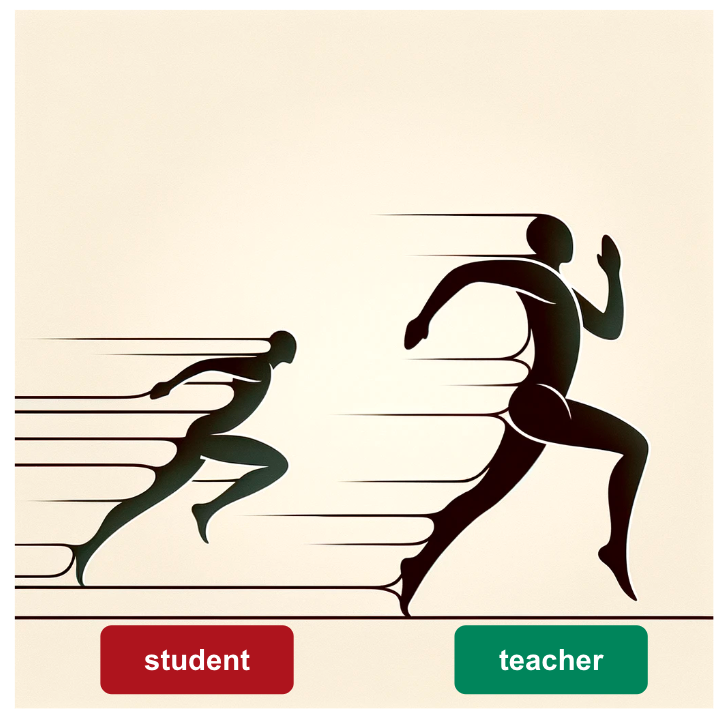
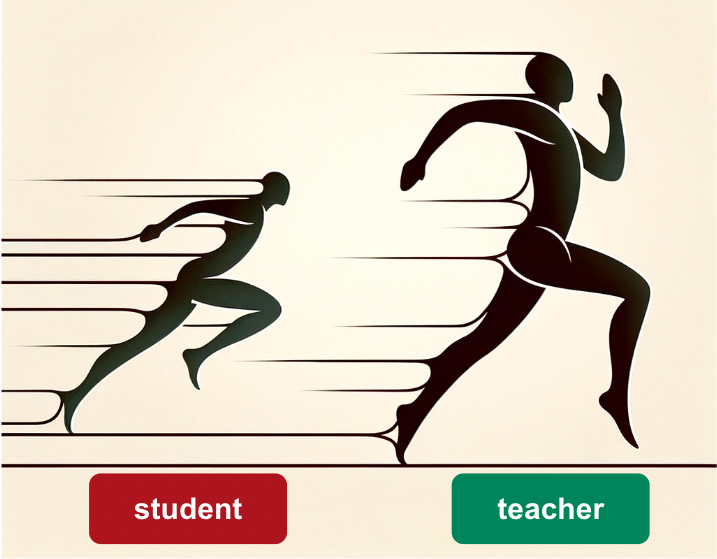
More writing.

Changed region(s): [[0.0, 0.0, 1.0, 1.0]]

diff --git a/README.md b/README.md
@@ -30,15 +30,14 @@ The advice in this document draws from our experience distilling language models
 
 ## Commmitment to open source
 
-At Predibase, we believe that the future is fine-tuned, specialized, and open source LLMs. Open source is in the DNA of the company, and as a company we maintain:
+At Predibase, we believe that the future is fine-tuned, specialized, and **open source** LLMs. Open source is in the DNA of the company, and as a company we maintain:
 
-- [Ludwig](https://github.com/ludwig-ai/ludwig): Low-code framework for building custom LLMs, neural networks, and other AI models
-- [LoRAX](https://github.com/predibase/lorax): Multi-LoRA inference server that scales to 1000s of fine-tuned LLMs
-- [Horovod](https://github.com/horovod/horovod): Distributed training framework for TensorFlow, Keras, PyTorch, and Apache MXNet.
+- [Ludwig](https://github.com/ludwig-ai/ludwig): Low-code framework for building custom LLMs, neural networks, and other AI models.
+- [LoRAX](https://github.com/predibase/lorax): Multi-LoRA inference server that scales to 1000s of fine-tuned LLMs.
 
 <details><summary><em>[More about Predibase]</em></summary>
 
-Predibase is a [managed platform](https://predibase.com) that's built on top of these repositories. If you are interested in a managed solution for fine-tuning and deploying LLMs, you can sign up for a free trial [here](https://predibase.com).
+Predibase is simply a [managed platform](https://predibase.com) that's built on top of open source. If you are interested in a managed solution for fine-tuning and deploying LLMs, you can sign up for a free trial [here](https://predibase.com).
 
 </details>
 
@@ -132,7 +131,7 @@ By measuring models on both of these test sets simultaneously, we can observe ho
 ***Summary:** The quality of your teacher model's outputs serves as an upper limit for the performance of your distilled student model. Invest in maximizing the quality of your teacher model's performance as much as possible.*
 
 ![img](images/student_and_teacher.png)
-<p align="center" ><i>Garbage in, garbage out.</i></p>
+<p align="center" ><i>Garbage in, garbage out. Make your teacher model as good as it can be before feeding its outputs for the student to imitate.</i></p>
 
 **Choose a good teacher:** The choice of the teacher model is a critical first step. Opt for a model that demonstrates the highest accuracy and understanding of your task. GPT-4 is generally great, but maybe there's a better foundation model out there for your use case, which may be better specialized on data similar to your task.
 
@@ -301,28 +300,54 @@ Tips for running lots of experiments at once:
 - Expect some toil and guesswork.
 - Optimize for iteration speed (simple -> complex, small -> large)
 
-The following suggestions came about as we tried to crystalize our own approach to fine-tuning LLMs and thus it represents the opinions of the authors at the time of writing, not any sort of objective truth.
+The following suggestions came about as we tried to crystalize our own approach to fine-tuning LLMs. This is far from a comprehensive list, but here are some of our favorites.
 
-| Idea                        | Complexity | Impact to Speed | Impact to Quality | Description                                                                                                                                                                                                                                                                                                                                                                                                                                                                                                                                                                                                                                                                                                                                                                                                                                                                                                                                                                                                                                |
-| --------------------------- | ---------- | --------------- | ----------------- | ------------------------------------------------------------------------------------------------------------------------------------------------------------------------------------------------------------------------------------------------------------------------------------------------------------------------------------------------------------------------------------------------------------------------------------------------------------------------------------------------------------------------------------------------------------------------------------------------------------------------------------------------------------------------------------------------------------------------------------------------------------------------------------------------------------------------------------------------------------------------------------------------------------------------------------------------------------------------------------------------------------------------------------------ |
-| Max sequence length.        | ★          | ★★★★★           | ★★★               | For long-tailed data, consider truncating your data to maximize GPU utilization.                                                                                                                                                                                                                                                                                                                                                                                                                                                                                                                                                                                                                                                                                                                                                                                                                                                                                                                                                           |
-| Foundation model.           | ★          | ★★              | ★★★★★             | Try out a few different foundation models and see what happens to your student models performance. Like teachers, different foundation models may be inherently closer to your task than others.                                                                                                                                                                                                                                                                                                                                                                                                                                                                                                                                                                                                                                                                                                                                                                                                                                           |
-| Model size.                 | ★          | ★★★★★           | ★★★               | Experiment with different sizes to get a sense of the trade-off between model performance and model size. Some tasks may benefit significantly from larger models due to the task's complexity. However, larger models are more likely to overfit to training data, especially if the dataset is not large or varied enough, or the gains in quality may be marginal. Increasingly, it's                                                                                                                                                                                                                                                                                                                                                                                                                                                                                                                                                                                                                                                   |
-| Prompt.                     | ★          | ★★              | ★★                | Prompts have an outsized impact with teacher models, but in supervised fine-tuning (SFT) and the weights of the model are updated directly, wordsmithing the prompt is not as directly impactful to quality.                                                                                                                                                                                                                                                                                                                                                                                                                                                                                                                                                                                                                                                                                                                                                                                                                               |
-| Precision and quantization. | ★★         | ★★★★            | ★★★★              | Reducing precision significantly decreases the model's size, enabling it to train with larger batch sizes and thus higher throughput. While quantization can sometimes lead to a slight decrease in model accuracy due to the reduced precision, it's not always the case. In our experiments, oftentimes the trade-off is minimal compared to the gains in speed and size reduction.                                                                                                                                                                                                                                                                                                                                                                                                                                                                                                                                                                                                                                                      |
-| Other hyperparameters.      | ★★★        | ★★★             | ★★★               | **Batch size:** Not a big impact to quality, but has strong implications for training throughput and efficient hardware utilization. For LLMs, choose the highest batch size that doesn't OOM. **Rank and alpha:** rank in LoRA determines the size of the low-rank matrices that are used to approximate the full-rank weight matrices in the model. A higher rank can increase the model's capacity to learn complex patterns but at the cost of more parameters to train. Conversely, a lower rank is more parameter-efficient but limits the model's expressiveness. **Learning rate (LR) and LR schedule:** An optimal learning rate ensures that the model learns efficiently without missing or overshooting the optimal weights. A proper warm-up can improve model training stability and performance while decay helps maintain the balance between learning complex patterns and avoiding overfitting to the training data. **# epochs:** Simply training a model for longer (more epochs) will often result in a better model. |
-| Tailored training.          | ★★★★★      | ★               | ★★★               | The most advanced training techniques that are worth saving for last-mile optimizations.  **Progressive learning,** also known as curriculum learning, is a training strategy where the model is fine-tuned in a series of stages, each with a different kind of training data, typically progressing from more general or noisier data to more specific, high-quality, or in-domain data. Progressive learning mirrors the natural way humans learn: starting from broad concepts and gradually focusing on more specific and complex ideas. **RLHF/RLHAIF/DPO**, also called "preference tuning" where the model undergoes reinforcement learning to align better to human preferences. This was originally popularized by OpenAI, however it's extremely costly, and seems like a last mile optimization. We have yet to speak with a company who has a critical need for this level of optimization.                                                                                                                                   |
-
+| Category               | Idea                                | Impact to Quality | Impact to Speed | Complexity | Description                                                                                                                                                                                                                                                                                                                                                                                                                                                                                                                                                             |
+| ---------------------- | ----------------------------------- | ----------------- | --------------- | ---------- | ----------------------------------------------------------------------------------------------------------------------------------------------------------------------------------------------------------------------------------------------------------------------------------------------------------------------------------------------------------------------------------------------------------------------------------------------------------------------------------------------------------------------------------------------------------------------- |
+| Architecture parameter | Foundation model                    | ★★★★★             | ★★              | ★          | Try out a few different foundation models and see what happens to your student models performance. Like teachers, different foundation models may be inherently closer to your task than others.                                                                                                                                                                                                                                                                                                                                                                        |
+| Architecture parameter | Precision and quantization          | ★★★★              | ★★★★            | ★★         | Reducing precision significantly decreases the model's size, enabling it to train with larger batch sizes and thus higher throughput. While quantization can sometimes lead to a slight decrease in model accuracy due to the reduced precision, it's not always the case. In our experiments, oftentimes the trade-off is minimal compared to the gains in speed and size reduction.                                                                                                                                                                                   |
+| Architecture parameter | Adapter parameters (rank and alpha) | ★★★★              | ★★★             | ★★         | Rank in LoRA determines the size of the low-rank matrices that are used to approximate the full-rank weight matrices in the model. A higher rank can increase the model's capacity to learn complex patterns but at the cost of more parameters to train. Conversely, a lower rank is more parameter-efficient but limits the model's expressiveness.                                                                                                                                                                                                                   |
+| Architecture parameter | Base model size                     | ★★★               | ★★★★★           | ★          | Experiment with different sizes to get a sense of the trade-off between model performance and model size. Some tasks may benefit significantly from larger models due to the task's complexity. However, larger models are more likely to overfit to training data, especially if the dataset is not large or varied enough, or the gains in quality may be marginal. Increasingly, it's                                                                                                                                                                                |
+| Architecture parameter | Prompt                              | ★★                | ★★              | ★          | Prompts have an outsized impact with teacher models, but in supervised fine-tuning (SFT) and the weights of the model are updated directly, wordsmithing the prompt is not as directly impactful to quality.                                                                                                                                                                                                                                                                                                                                                            |
+| Training parameter     | Epochs                              | ★★★★★             | ★★★★★           | ★          | Simply training a model for longer (more epochs) will often result in a better model.                                                                                                                                                                                                                                                                                                                                                                                                                                                                                   |
+| Training parameter     | Learning rate (LR) and LR schedule  | ★★★★★             | ★               | ★          | An optimal learning rate ensures that the model learns efficiently without missing or overshooting the optimal weights. A proper warm-up can improve model training stability and performance while decay helps maintain the balance between learning complex patterns and avoiding overfitting to the training data.                                                                                                                                                                                                                                                   |
+| Training parameter     | Max sequence length                 | ★★★               | ★★★             | ★          | For long-tailed data, consider truncating your data to maximize GPU utilization.                                                                                                                                                                                                                                                                                                                                                                                                                                                                                        |
+| Training parameter     | Batch size                          | ★★★               | ★★★★★           | ★          | Max out your GPU. Choose the highest batch size that doesn't OOM.                                                                                                                                                                                                                                                                                                                                                                                                                                                                                                       |
+| Training strategy      | Curriculum learning                 | ★★★★              | ★★★             | ★★★★★      | Progressive learning, also known as curriculum learning, is a training strategy where the model is fine-tuned in a series of stages, each with a different kind of training data, typically progressing from more general or noisier data to more specific, high-quality, or in-domain data. Progressive learning mirrors the natural way humans learn: starting from broad concepts and gradually focusing on more specific and complex ideas. Example of progressive learning from [orca-2](https://arxiv.org/abs/2311.11045): ![img](images/curriculum_learning.png) |
+| Training strategy      | RLHF/RLAIF/DPO                      | ★★★★              | ★★★★★           | ★★★★★      | RLHF/RLHAIF/DPO, also called "preference tuning" where the model undergoes reinforcement learning to align better to human preferences. This was originally popularized by OpenAI, however it's extremely costly, and seems like a last mile optimization. We have yet to speak with a company who has a critical need for this level of optimization. High-level diagram of [RLHF vs. RLAIF](https://arxiv.org/abs/2309.00267): ![img](images/rlhf.png)                                                                                                                |
 
 ### 11. Actually look at the model’s mistakes.
 
-While aggregate metrics and advanced automated evaluation methods provide a broad overview of model performance, there is unparalleled value in manually reviewing individual examples of your model's outputs.
+***Summary:** While aggregate metrics and advanced automated evaluation methods provide a broad overview of model performance, Manually reviewing examples of your model's outputs brings unparalleled value for a deeper qualitative understanding of model performance.*
+
+**Identify Specific Errors:** Only by examining individual examples where the model errs, you can start to categorize and understand the nature of these mistakes. Is the model consistently struggling with certain types of inputs? Are there specific patterns or contexts where errors are more frequent or likely?
+
+**Uncover Data Issues:** Often, patterns in mistakes can be traced back to issues in data preparation or inadequate representation in the training set. Identifying these issues early can save significant resources and time that might otherwise be spent on futile parameter optimization. There's nothing more frustrating or wasteful than to spend hundreds of GPU hours optimizing modeling parameters when you uncover an issue with data quality.
+
+![img](images/llm_loss_curves.png)
+
+<p align="center" ><i>Loss curves for fine-tuned LLMs will all look like this, yet the qualitative differences between these checkpoints can be substantial.</i></p>
+
+Try to maintain an objective view of your model's capabilities. Don't be swayed by high-level performance metrics alone. Taking the time to delve into the specifics of where and how your model makes mistakes is not just a step in the evaluation process; it's a critical component of the model development journey.
 
 ### 12. Monitor your models in production and A/B test them with real users.
 
-While test sets provide a controlled environment for evaluation, the true test of your model’s effectiveness is how it performs with actual users and real-time inputs. Deploy your model and observe its performance in a real-world setting!
+***Summary:** While test sets provide a controlled environment for evaluation, the true test of your model’s effectiveness is how it performs with actual users and real-time inputs. Deploy your model and observe its performance in a real-world setting!*
 
+Deploy and monitor your models in production… actually. Whether you are a resesarcher, an engineer, or somewhere in between, there's a lot to learn from going through the due dilligence of productionizing your model for real.
+
+### Options for Model Deployment
+
+- **Live Experiment and Gradual Rollout:** Begin by directing a small percentage of traffic (e.g., 1%, then 10%) to the student model. Closely monitor changes in key application metrics like latency and user interactions before scaling up.
+- **Dark Launch:** Continue using the teacher model in production but route a portion of traffic to the student model in the background. Compare instances where the student model’s predictions differ from the teacher’s to evaluate its readiness.
+- **Hybrid Launch:** If the teacher model outperforms the student model, consider a hybrid deployment. The student model can handle simpler, less resource-intensive queries, while the teacher model addresses more complex requests. This approach balances efficiency with quality.
+
+### Infrastructure safeguards
+
+- **Monitor Inputs:** Fine-tuned models, being more specialized, can be sensitive to feature drift. 
+- **Monitor Outputs:** Establish failsafe mechanisms to scrutinize generated outputs. LLMs in production are often accompanied by rules-based or model-based systems to identify issues and trigger fallbacks. Be aware that using another LLM for output monitoring can add latency.
+- **Maintain Logs:** Continue logging the inputs and outputs of your production teacher and student models. These logs are invaluable for future model refinements or re-distillations.
 
 ### Are there other best practices missing from this list?
 
-Feel free to create a PR! We promise to review it with expediency.
+Feel free to create a PR! We promise to review your suggestions with expediency.
